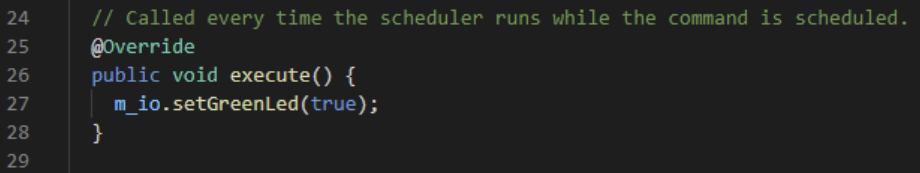
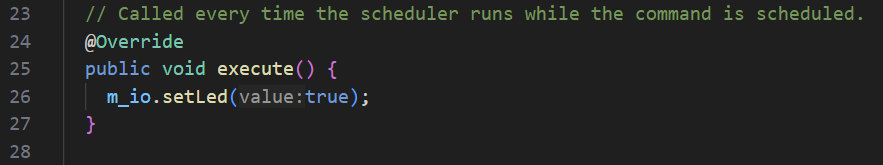
Lesson 3 Fixes (complete)

diff --git a/src/course-data.tsx b/src/course-data.tsx
@@ -352,7 +352,7 @@ const data: CourseData = {
     }
   },
   'Lesson 3 - Methods, Classes, and Objects': {
-    'totalParagraphs': 22,
+    'totalParagraphs': 21,
     'Introduction': {
       0: {
         content: <p>In Lesson 2 you learned what methods are, but we only scratched the surface. In this lesson we’ll introduce two more critical concepts – classes and objects. We’ll learn how to utilize the buttons on your joystick and make the on-board lights on the XRP turn on and off. Start off by creating a new XRPReference project called “Lights”.</p>,
@@ -411,22 +411,21 @@ const data: CourseData = {
         actionType: ActionType.Code,
         image: <img src='./images/lesson3_12.png' />,
         content: <div>
-          <p>3. Put your cursor inside the parentheses on line 14 (NOT the curly bracket at the end) and type “XRPOnBoardIO io”. Then go to the end of line 15 (the next line), press enter, and add two lines of code. These lines initialize the XRPOnBoardIO object.</p>
+          <p>3. Put your cursor inside the parentheses on line 14 (NOT the curly bracket at the end) and type “XRPOnBoardIO io”. Then go to the end of line 15 (the next line), press enter, and add one line of code. This line initializes the XRPOnBoardIO object.</p>
           <ol type='a'>
             <li>m_io = io;</li>
-            <li>addRequirements(io);</li>
-            <li>When you’re done with these steps, lines 10-19 should look like this:</li>
+            <li>When you’re done with these steps, lines 10-18 should look like this:</li>
           </ol>
         </div>
       },
       13: {
         actionType: ActionType.Code,
         image: <img src='./images/lesson3_13.png' />,
-        content: <p>4. Move your cursor to inside the curly brackets on line 26 (this time NOT the parentheses.) Press enter and then add a line of code by typing “m_io.setGreenLed(true);”. Your execute method should now look like this:</p>
+        content: <p>4. Move your cursor to inside the curly brackets on line 25 (this time NOT the parentheses.) Press enter and then add a line of code by typing “m_io.setLed(true);”. Your execute method should now look like this:</p>
       },
       14: {
         actionType: ActionType.Code,
-        content: <p>Congratulations! You’ve now created your first robot command. Unfortunately, there’s no way to activate this command yet, but we’ll add that in a moment. First, let’s create the sister command that turns the LED off. Follow the steps above again to create another command in the same folder, but call it “TurnLedOff”. Follow all the same steps to add the code to the new command, but when you get to line 27 where you do m_io.setGreenLed(true);, use “false” instead of “true”. Once you’ve created the second command, it’s time to hook them up to a joystick button.</p>
+        content: <p>Congratulations! You’ve now created your first robot command. Unfortunately, there’s no way to activate this command yet, but we’ll add that in a moment. First, let’s create the sister command that turns the LED off. Follow the steps above again to create another command in the same folder, but call it “TurnLedOff”. Follow all the same steps to add the code to the new command, but when you get to line 27 where you do m_io.setLed(true);, use “false” instead of “true”. Once you’ve created the second command, it’s time to hook them up to a joystick button.</p>
       },
       15: {
         actionType: ActionType.Code,
@@ -436,7 +435,7 @@ const data: CourseData = {
       16: {
         actionType: ActionType.Code,
         image: <img src='./images/lesson3_16.png' />,
-        content: <p>Now go to RobotContainer.java, put your cursor at the end of line 65, press enter twice, and type out code to match the image below. However, where there are red boxes, change the number 1 to whatever number your button is. These lines of code create a “JoystickButton” object and bind the commands you created to execute when you press and release the button, respectively. You’ll see the red underlines indicating you have errors, and we’ll fix those next. Note that it’s possible that VSCode will fix the red underline under “JoystickButton” on its own. If it does so, that red underline will go away, and all the line numbers in your code will increase by one relative to the image below.</p>
+        content: <p>Now go to RobotContainer.java, put your cursor at the end of line 57, press enter twice, and type out code to match the image below. However, where there are red boxes, change the number 1 to whatever number your button is. These lines of code create a “JoystickButton” object and bind the commands you created to execute when you press and release the button, respectively. You’ll see the red underlines indicating you have errors, and we’ll fix those next. Note that it’s possible that VSCode will fix the red underline under “JoystickButton” on its own. If it does so, that red underline will go away, and all the line numbers in your code will increase by one relative to the image below.</p>
       },
       17: {
         actionType: ActionType.Code,
@@ -450,14 +449,9 @@ const data: CourseData = {
       },
       19: {
         actionType: ActionType.Code,
-        image: <img src='./images/lesson3_19.png' />,
-        content: <p>You’re now almost done. The last thing to do is to tell the XRP to use the green LED as an output device. The way the XRP is physically constructed, its green and red LEDs use “digital input/output”, or DIO, ports, which can be used for either input or output. Using an LED is an example of output – the XRP will output the light. An example of input would be if you plugged a button into the DIO port, which would let the XRP receive input. We will not cover that in this course. By default, when you create a XRPReference project, both the red and green LED DIO ports are set to receive input, instead of output, so you’ll need to change that. Head to RobotContainer.java, go to line 34, and change the first instance of the word “INPUT” to “OUTPUT”. The second “INPUT” refers to the red LED, which you’re not using in this lesson. Example:</p>
-      },
-      20: {
-        actionType: ActionType.Code,
         content: <p>Now you’re done! You can deploy your code to your XRP, enable it, and try pressing your button. You will notice that a light near the back of the XRP lights up while you’re holding the button down, and turns off when you release it.</p>
       },
-      21: {
+      20: {
         actionType: ActionType.Read,
         content: <p>Congratulations on finishing the first three lessons. You’ve now learned a lot of the basics of Java and robot programming. There’s still a lot to learn but if you’ve made it this far, you’re doing well and you should have a basic understanding of how software can be used to effect the behavior of the robot. Over the next lessons we’ll build on that understanding, which will increase both your skills and your confidence in writing your own programs.</p>
       }
